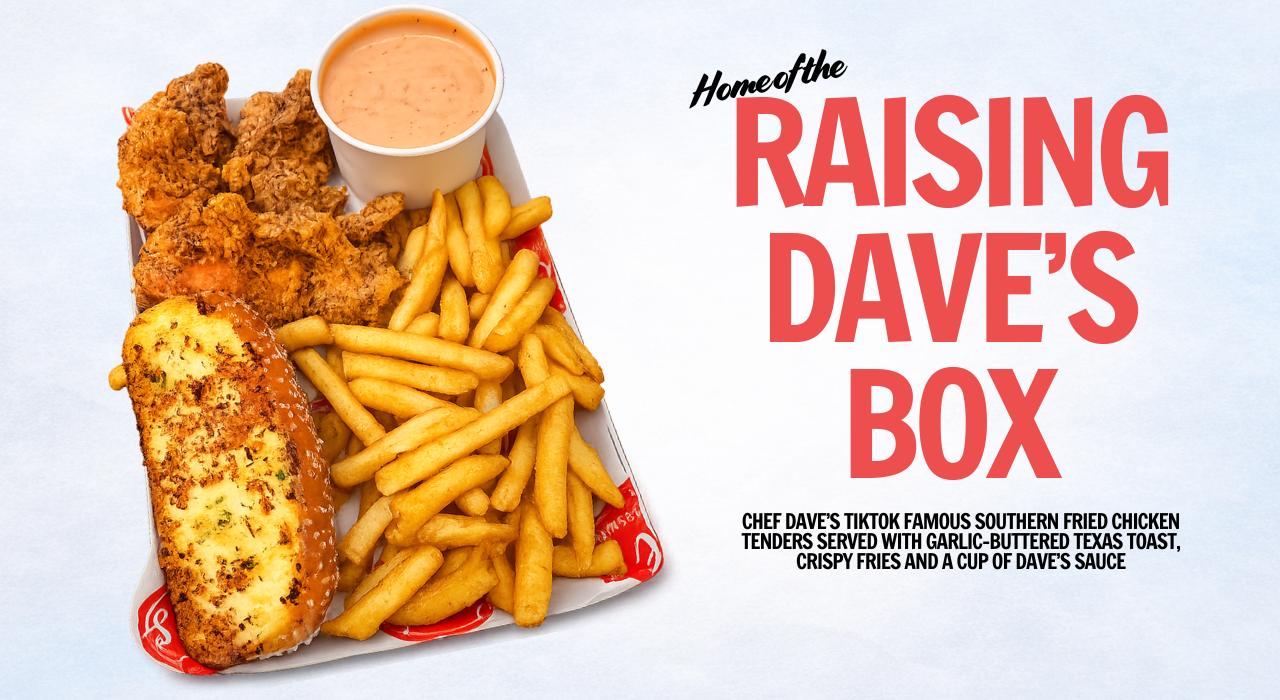
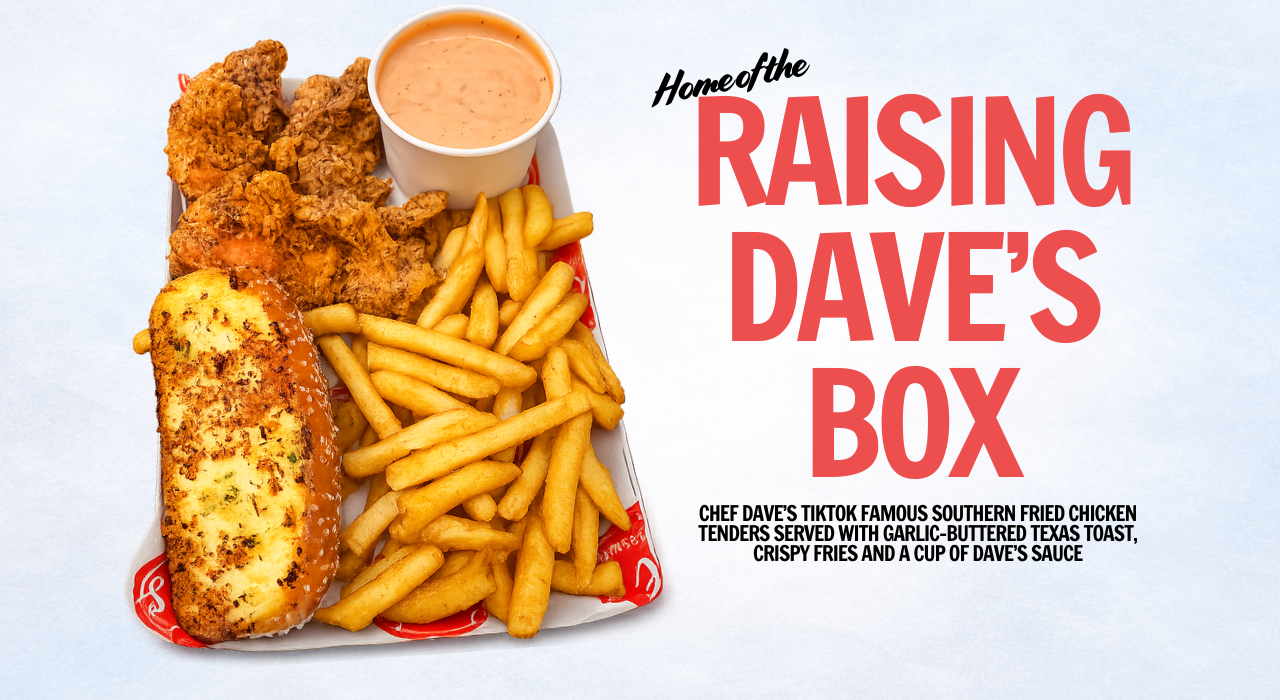
Update Raising Dave's desktop hero image and button position.
Replace heroimg3-web with a better-positioned photo and optimized variants; nudge ORDER button to x:72, y:86.

diff --git a/src/data/heroSlides.ts b/src/data/heroSlides.ts
@@ -32,7 +32,7 @@ export const heroSlides: HeroSlide[] = [
     buttonText: "ORDER ONLINE",
     buttonLink: ORDER_URL,
     active: true,
-    buttonPositionDesktop: { x: 75, y: 88 },
+    buttonPositionDesktop: { x: 72, y: 86 },
     buttonPositionMobile: { x: 50, y: 92.5 },
   },
   {